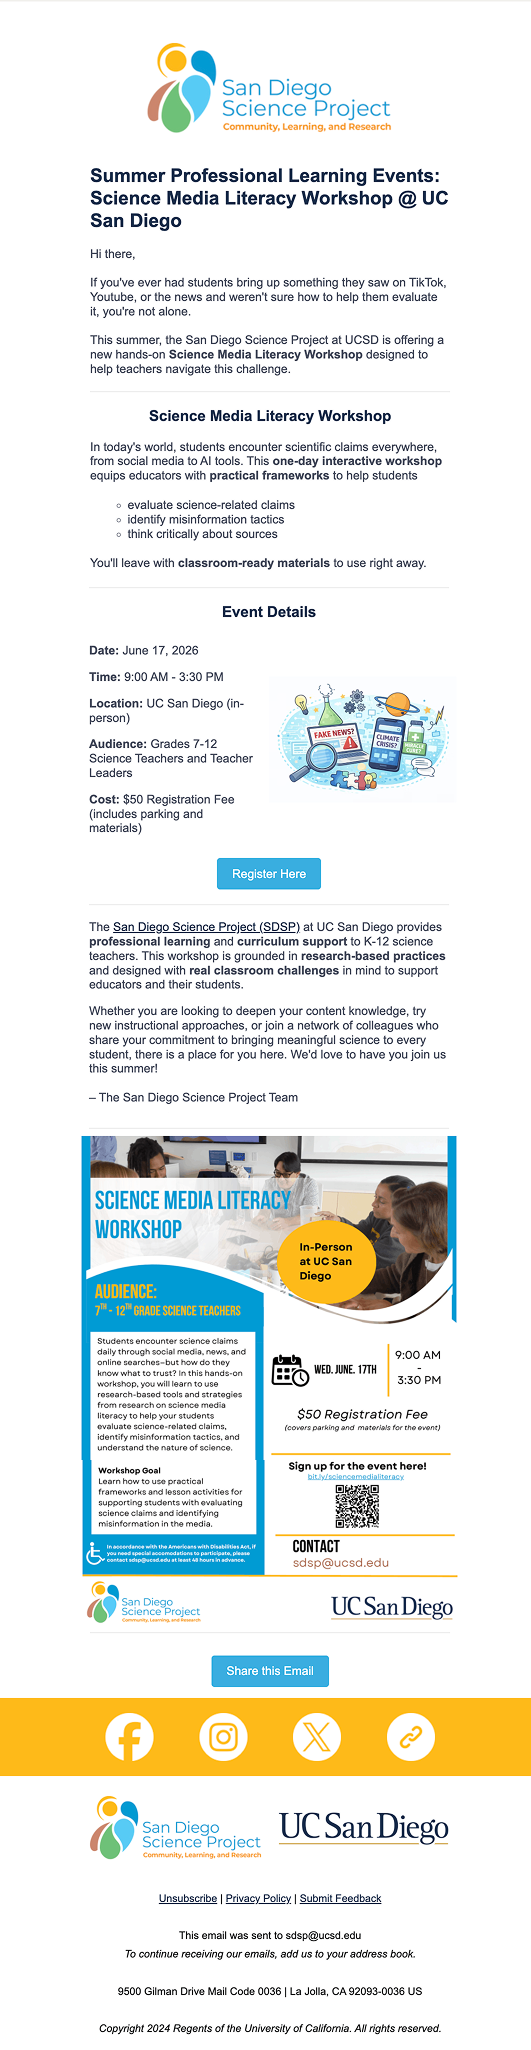
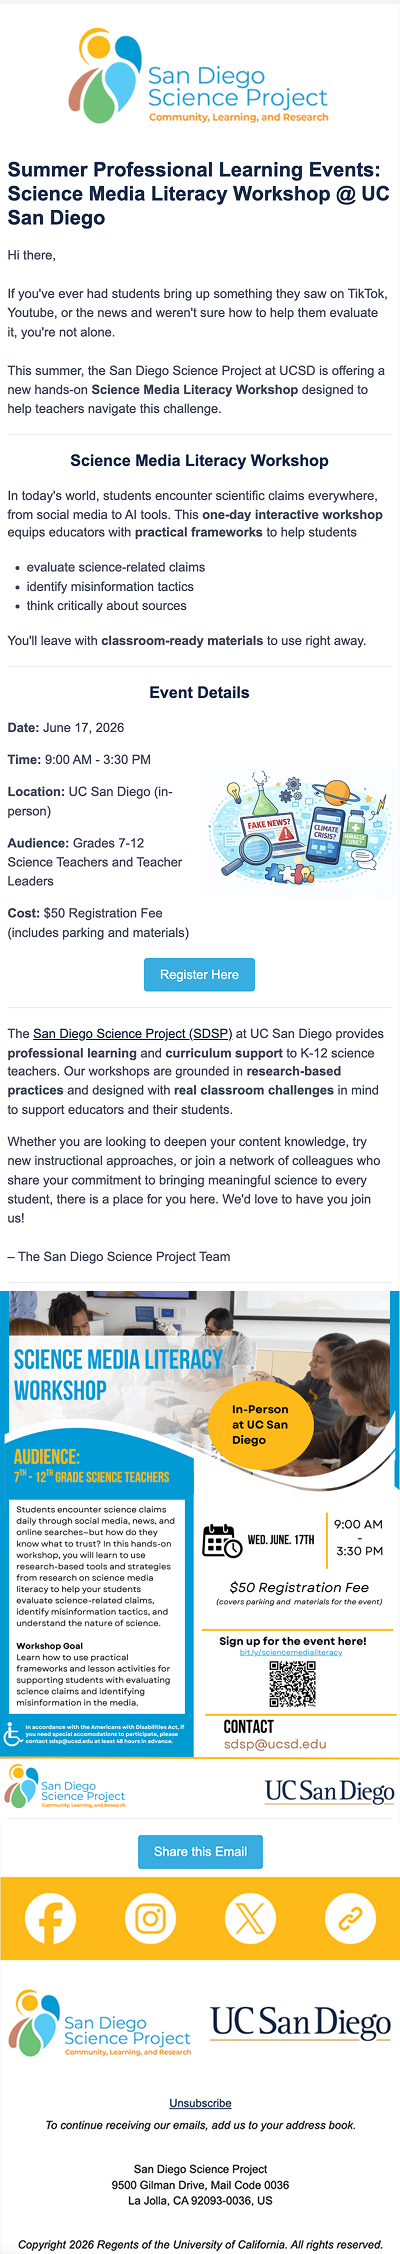
added sample images for both templates

diff --git a/README.md b/README.md
@@ -7,19 +7,22 @@ This repository contains MyEmma email marketing resources for the San Diego Scie
 1. SDSP Workshop Feature Template: an email for featuring one of SDSP's events/workshops. 
    1. Included: a series of drag-and-drop html blocks and an assembly guide. 
    2. Download the `sdsp_workshop_template` folder and follow the guide in `INSTRUCTIONS.md`.
-2. *work in progress:* SDSP One-Pager Template: an email to give a simple explanation for what SDSP does.
+2. SDSP One-Pager Template: an email to give a simple explanation for what SDSP does.
    1. Included: a series of drag-and-drop html blocks and an assembly guide.
    2. Download the `sdsp_onepager_template` folder and follow the guide in `INSTRUCTIONS.md`.
 
-## Visual Sample: 
+## Visual Samples:
 
-### Workshop Feature Example
-
-![workshop feature sample](workshop_feature_sample.png)
-
-### SDSP One-Pager Example *work in progress*
-
-![SDSP one pager example]()
+<table>
+   <tr>
+      <td align="center" valign="top" width="50%">
+         <img src="workshop_feature_sample.png" alt="workshop feature sample" width="100%">
+      </td>
+      <td align="center" valign="top" width="50%">
+         <img src="onepager_sample.png" alt="SDSP one pager example" width="100%">
+      </td>
+   </tr>
+</table>
 
 ## Attributions:
 
